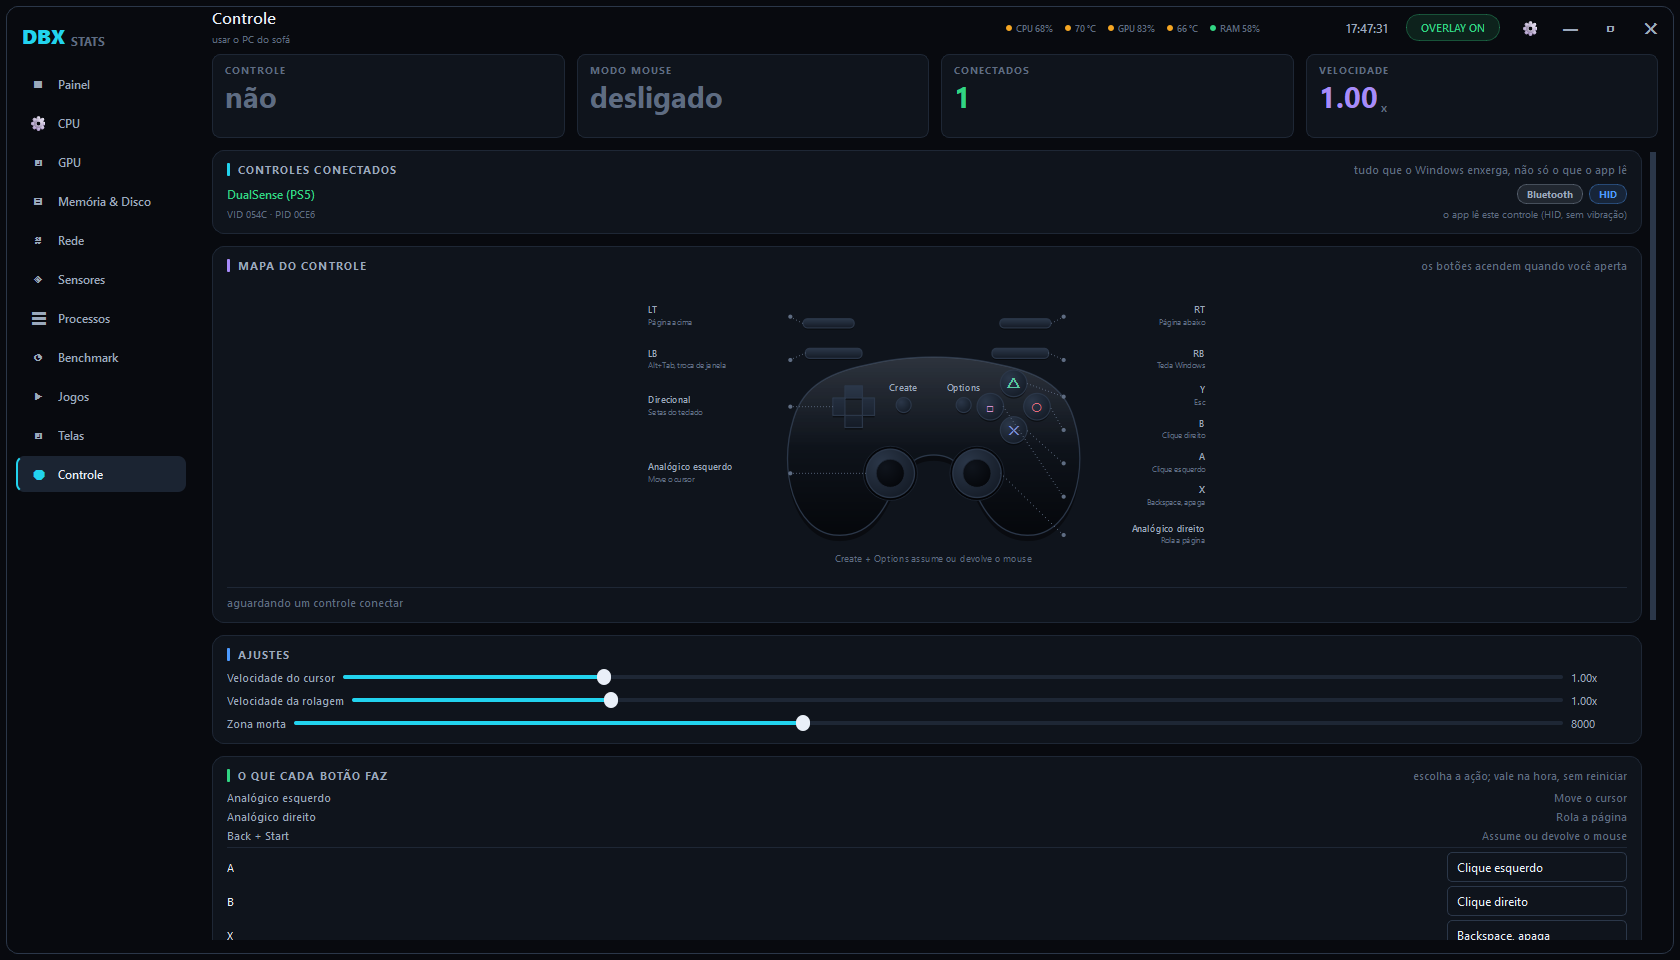
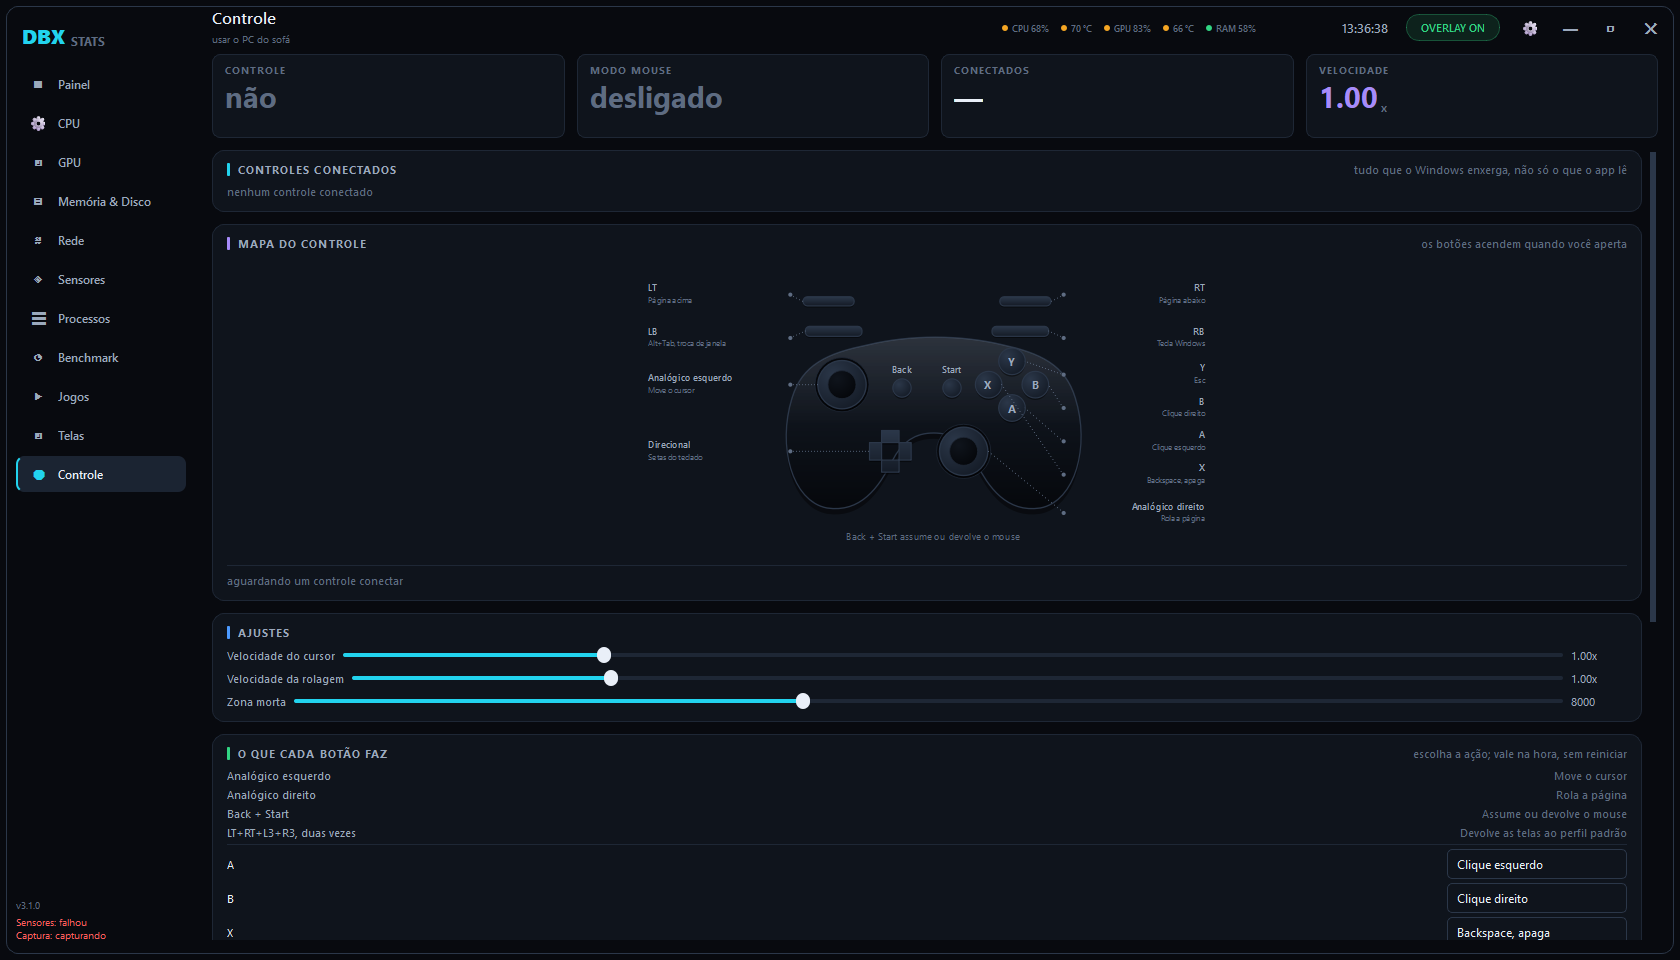
Versao e saude dos sensores no rodape da barra lateral
O rodape havia saido por ser "ruido fixo num canto que ninguem olha", e isso
valia enquanto tudo funcionava. Quando os sensores ou a captura caem, o app fica
com a cara de sempre e simplesmente sem numero nenhum, e nao ha' onde perguntar
por que. Aconteceu numa instalacao nova: nenhuma metrica, nenhuma pista na tela.

Sao tres linhas pequenas: a versao, o estado dos sensores e o da captura. Ficam
cinzas quando esta' tudo de pe' e vermelhas so' quando ha' o que consertar:
captura esperando jogo no desktop e' estado normal, nao falha. O motivo do erro
vai para a dica de ferramenta, onde cabe o texto inteiro sem quebrar a barra.

A versao resolve outra pergunta que apareceu na pratica: saber o que a outra
pessoa instalou, sem pedir para ela abrir Programas e Recursos.

Os estados sao lidos com getattr e padrao: o leitor de sensores pode existir sem
ter terminado de subir, e a barra lateral nao pode cair junto com ele.

diff --git a/src/dbxstats/ui/main_window.py b/src/dbxstats/ui/main_window.py
@@ -13,7 +13,7 @@ from PySide6.QtWidgets import (
     QWidget,
 )
 
-from .. import log, theme
+from .. import __version__, log, theme
 from ..core import units
 from ..platform import win as winapi
 from .components import IconButton, LoadDots, NavButton, PillButton, label
@@ -153,10 +153,49 @@ class Sidebar(QWidget):
             lay.addWidget(btn)
         lay.addStretch(1)
 
-        # O rodape com "Sensores / Captura / Ligado ha" saiu daqui: era ruido
-        # fixo num canto que ninguem olha. O estado dos sensores tem lugar
-        # proprio na aba Sensores, o da captura aparece no painel quando falta
-        # jogo, e o tempo ligado esta' nas abas CPU e Memoria.
+        # O rodape voltou, menor e por outro motivo. Ele havia saido por ser
+        # "ruido fixo num canto que ninguem olha" — e isso valia enquanto tudo
+        # funcionava. Quando os sensores ou a captura caem, o app fica com a
+        # cara de sempre e simplesmente sem numero nenhum, e nao ha' onde
+        # perguntar por que. Sao dois estados e uma versao: olha-se uma vez, na
+        # hora em que algo quebrou, que e' exatamente quando faltava.
+        self.versao = label(f"v{__version__}", 7.5, color=theme.FAINT)
+        lay.addWidget(self.versao)
+        self.saude = label("", 7.5, color=theme.FAINT)
+        self.saude.setWordWrap(True)
+        lay.addWidget(self.saude)
+
+    def atualizar_saude(self) -> None:
+        """Diz se os sensores e a captura estao de pe', e o porque quando nao.
+
+        O texto do erro vai para a dica de ferramenta em vez da tela: na barra
+        ele quebraria o layout, mas e' o que responde "por que nao aparece
+        nada" sem abrir log nenhum.
+        """
+        app = self._win.app
+        lhm = getattr(app, "lhm", None)
+        fps = getattr(app, "fps", None)
+
+        # getattr com padrao: o leitor pode existir sem ter terminado de subir,
+        # e a barra lateral nao pode cair junto com ele.
+        sensores_ok = bool(getattr(lhm, "ready", False))
+        erro = str(getattr(lhm, "error", "") or "sem leitor de sensores")
+        captura = str(getattr(fps, "status", "") or "—")
+        capturando = captura in ("capturando", "aguardando um jogo")
+
+        partes = [
+            f"Sensores: {'ok' if sensores_ok else 'falhou'}",
+            f"Captura: {captura}",
+        ]
+        self.saude.setText("\n".join(partes))
+        # Vermelho so' quando ha' o que consertar; sensor de pe' e captura
+        # esperando jogo sao o estado normal e nao devem chamar atencao.
+        ruim = not sensores_ok or not capturando
+        self.saude.setStyleSheet(
+            f"color: {theme.BAD if ruim else theme.FAINT}; background: transparent;")
+        self.saude.setToolTip(erro if not sensores_ok else
+                              "Sensores lendo normalmente." if capturando else
+                              "A captura de quadros nao esta' ativa.")
 
     def set_active(self, key: str) -> None:
         accent = theme.accent_color(self._win.app.settings.accent)
@@ -280,6 +319,7 @@ class MainWindow(QWidget):
         if view is not None:
             view.on_system(data)
         self._update_chips(data)
+        self.sidebar.atualizar_saude()
 
     def tick_fps(self) -> None:
         view = self.current_view

diff --git a/tests/test_rodape_saude.py b/tests/test_rodape_saude.py
@@ -1,0 +1,84 @@
+"""Rodape da barra lateral: versao, sensores e captura.
+
+Ele existe para responder "por que nao aparece nada" sem abrir log — que foi
+exatamente a pergunta que apareceu quando os sensores nao subiram numa maquina.
+"""
+import os
+
+os.environ.setdefault("QT_QPA_PLATFORM", "offscreen")
+os.environ.setdefault("DBXSTATS_NO_FILE_LOG", "1")
+
+from PySide6.QtWidgets import QApplication  # noqa: E402
+
+from dbxstats import __version__  # noqa: E402
+from dbxstats.ui.main_window import Sidebar  # noqa: E402
+
+QApplication.instance() or QApplication([])
+
+
+class _Lhm:
+    def __init__(self, ready=True, error=""):
+        self.ready = ready
+        self.error = error
+
+
+class _Fps:
+    def __init__(self, status="capturando"):
+        self.status = status
+
+
+def _sidebar(lhm=None, fps=None):
+    """Sidebar sem construir a janela inteira: so' o rodape interessa."""
+    from dbxstats.ui.components import label
+
+    s = Sidebar.__new__(Sidebar)
+    app = type("A", (), {})()
+    app.lhm = lhm
+    app.fps = fps
+    s._win = type("W", (), {})()
+    s._win.app = app
+    s.saude = label("")
+    return s
+
+
+def test_versao_do_pacote_aparece():
+    """Sem numero de versao nao da' para saber o que a outra pessoa instalou."""
+    assert __version__.count(".") == 2
+
+
+def test_tudo_de_pe_nao_chama_atencao():
+    s = _sidebar(_Lhm(ready=True), _Fps("capturando"))
+    s.atualizar_saude()
+    assert "Sensores: ok" in s.saude.text()
+    assert "capturando" in s.saude.text()
+    assert "color: #FF5C5C" not in s.saude.styleSheet()
+
+
+def test_esperar_jogo_e_estado_normal():
+    """Ficar quieto no desktop e' o comportamento certo da captura, nao falha."""
+    s = _sidebar(_Lhm(ready=True), _Fps("aguardando um jogo"))
+    s.atualizar_saude()
+    assert "color: #FF5C5C" not in s.saude.styleSheet()
+
+
+def test_sensor_caido_fica_vermelho_e_explica():
+    """O caso da maquina sem .NET: nenhuma metrica e nenhuma pista na tela."""
+    s = _sidebar(_Lhm(ready=False, error="Nao encontrei o .NET Desktop Runtime"),
+                 _Fps("capturando"))
+    s.atualizar_saude()
+    assert "Sensores: falhou" in s.saude.text()
+    assert "color: #FF5C5C" in s.saude.styleSheet()
+    assert ".NET" in s.saude.toolTip()
+
+
+def test_captura_parada_fica_vermelha():
+    s = _sidebar(_Lhm(ready=True), _Fps("PresentMon nao conectou"))
+    s.atualizar_saude()
+    assert "color: #FF5C5C" in s.saude.styleSheet()
+
+
+def test_sem_leitor_nenhum_nao_quebra():
+    """App a meio caminho de subir nao pode derrubar a barra lateral."""
+    s = _sidebar(None, None)
+    s.atualizar_saude()
+    assert "falhou" in s.saude.text()
